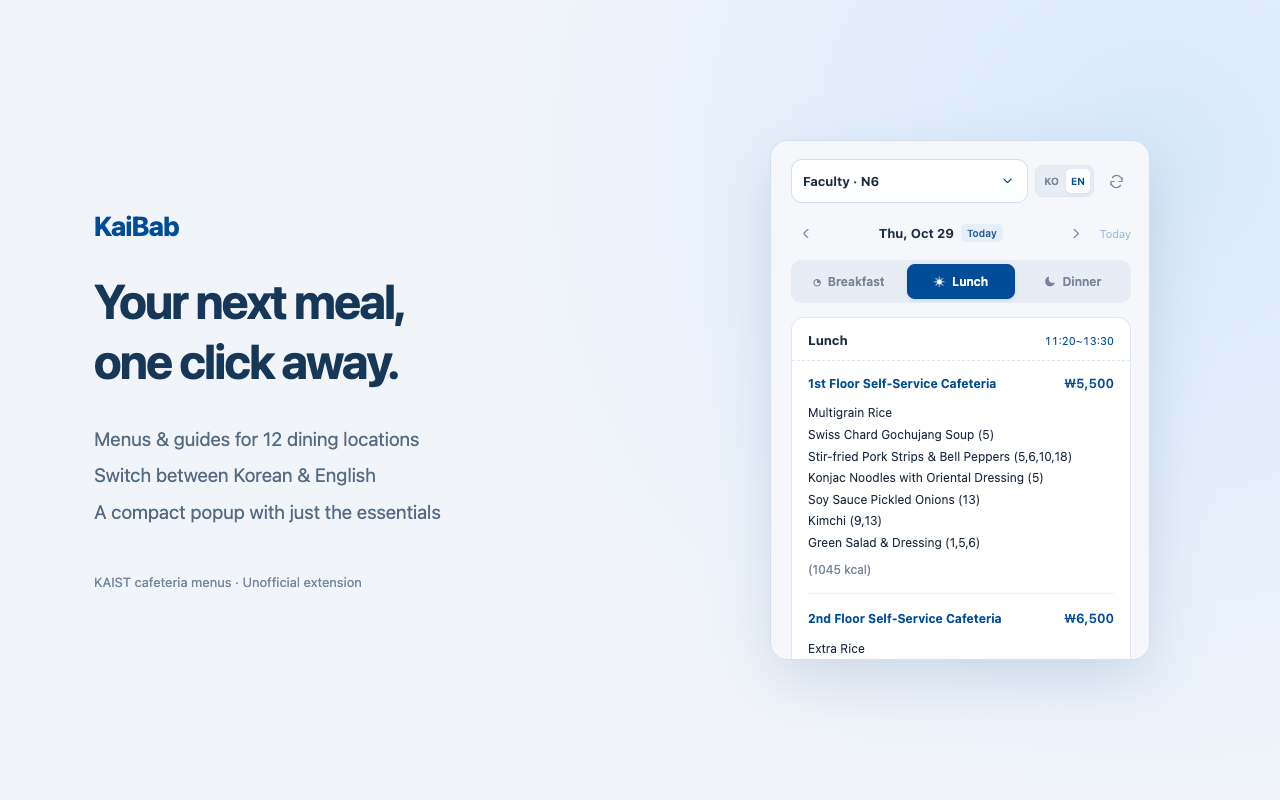
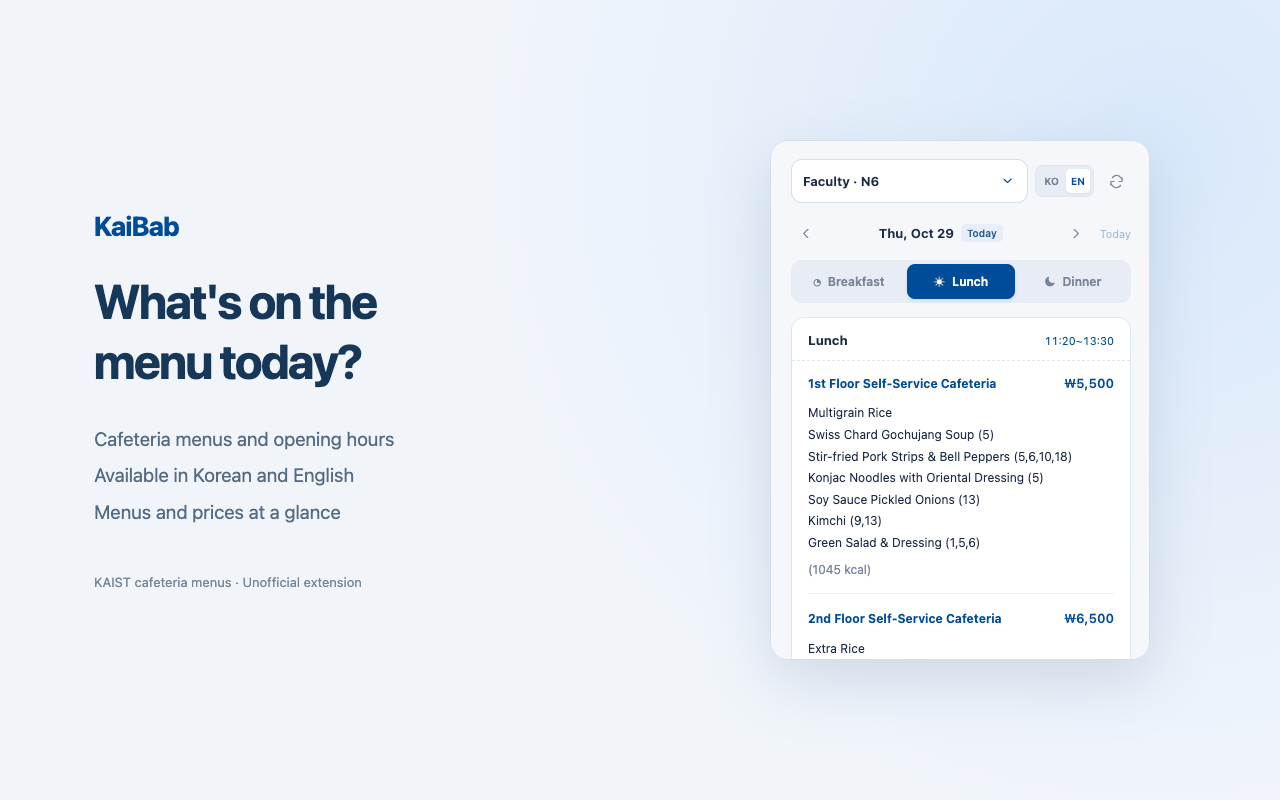
Use natural Korean and English introductory copy

Changed region(s): [[0.0625, 0.5312, 0.3438, 0.6562], [0.0625, 0.3438, 0.3125, 0.5]]

diff --git a/README.md b/README.md
@@ -1,8 +1,8 @@
 # KaiBab
 
-**아이콘 한 번으로 보는 KAIST 식단.**
+**식당별 메뉴와 가격을 확인하는 KAIST 식단 확장 프로그램입니다.**
 
-A compact, unofficial KAIST cafeteria menu extension for Chrome, in Korean and English.
+Check menus and prices at KAIST cafeterias in Korean or English, right from Chrome.
 
 [홈페이지](https://legojeon.github.io/kaibab/) · [개인정보처리방침](https://legojeon.github.io/kaibab/privacy.html) · [문의 및 버그 제보](https://github.com/legojeon/kaibab/issues)
 
